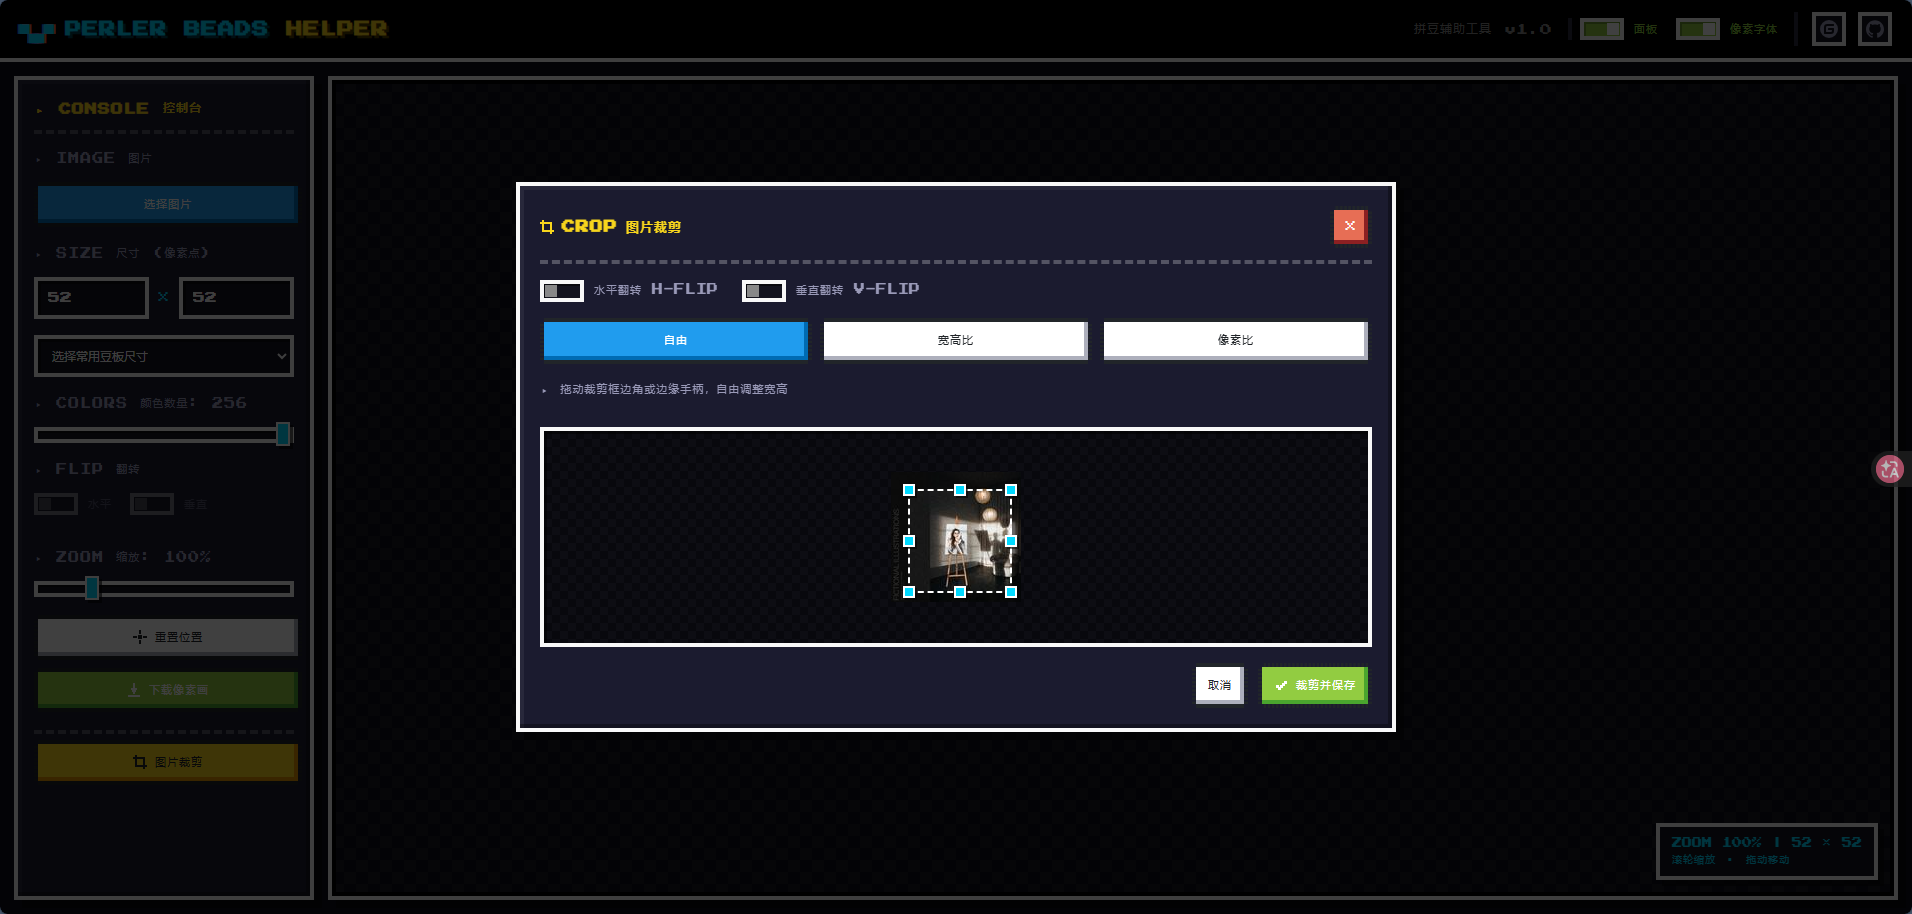
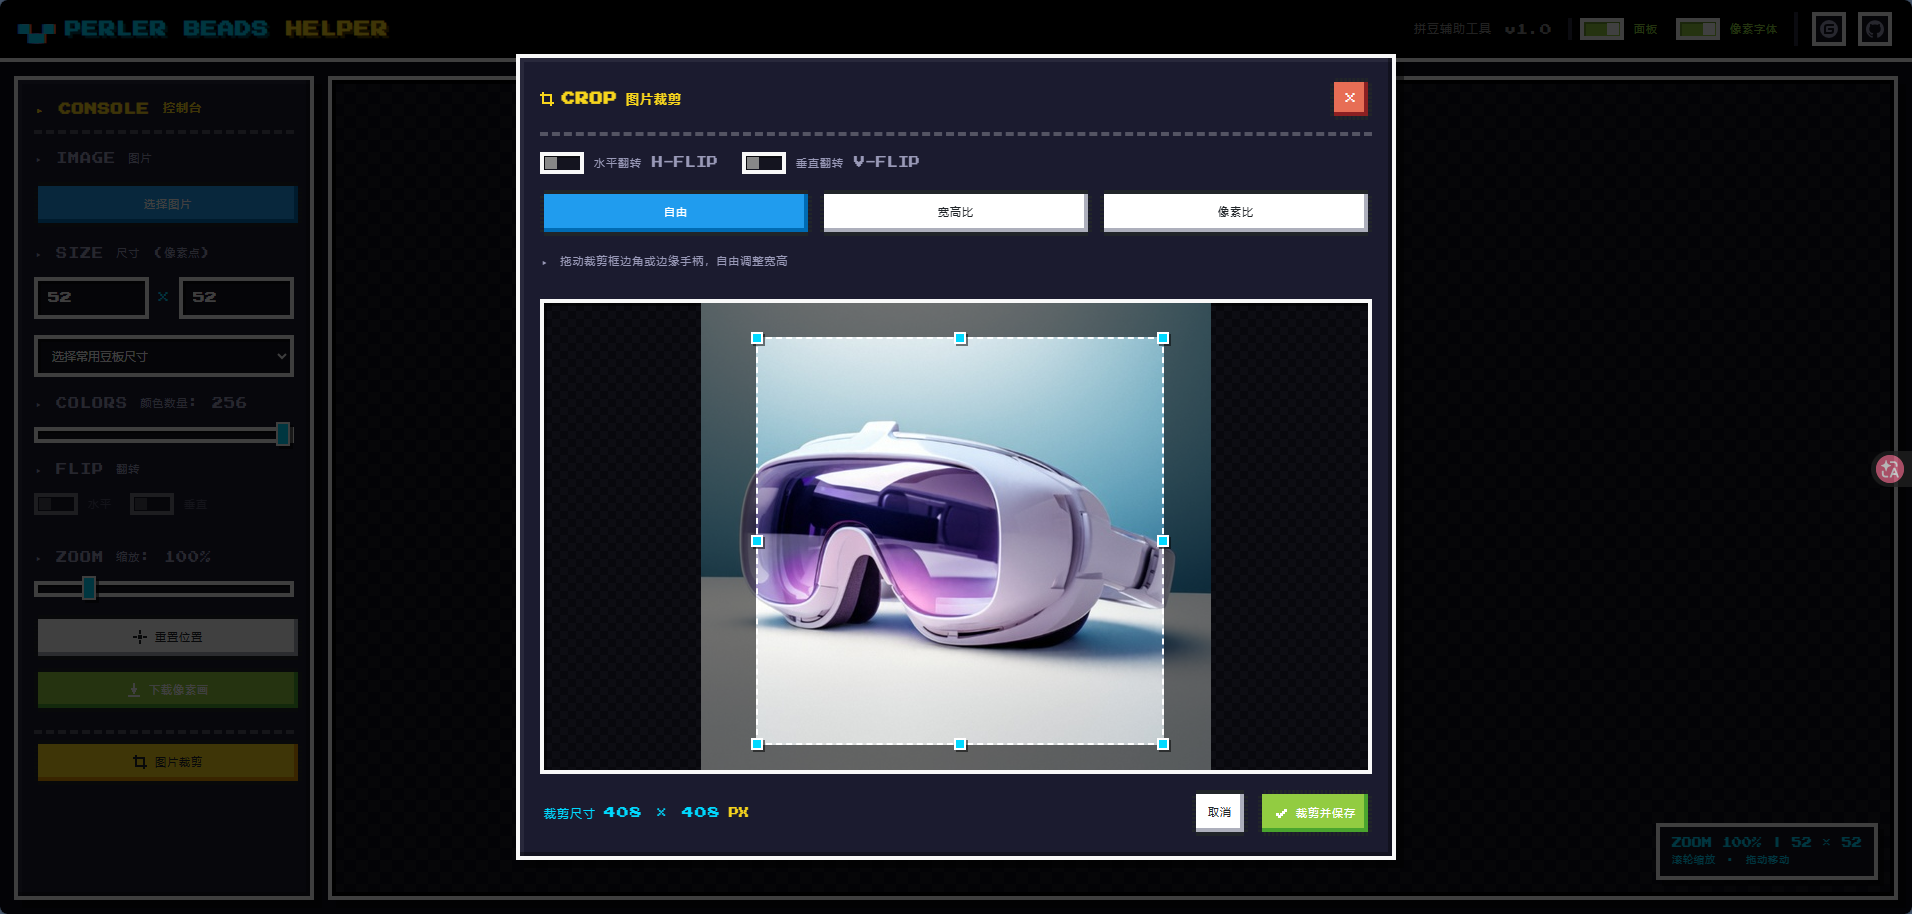
在裁剪弹窗的左下角，实时显示当前裁剪框裁剪的宽高像素

diff --git a/js/state.js b/js/state.js
@@ -105,6 +105,24 @@ window.PBH = window.PBH || { state: {}, fn: {} };
           height: cropRect.value.h + 'px'
         }));
 
+        // 图片在裁剪舞台内的实际显示区域（用于把裁剪框换算成真实像素）
+        const cropImgRect = ref(null);
+
+        /**
+         * 裁剪框对应的输出像素尺寸：与 applyCrop 的换算一致
+         * 像素比模式输出尺寸固定为输入值
+         */
+        const cropOutputSize = computed(() => {
+          const rect = cropImgRect.value;
+          const img = cropImage.value;
+          if (!rect || !img || rect.width <= 0) return null;
+          if (cropType.value === 'pixel' && customPxW.value > 0 && customPxH.value > 0) {
+            return { w: customPxW.value, h: customPxH.value };
+          }
+          const k = img.naturalWidth / rect.width;
+          return { w: Math.round(cropRect.value.w * k), h: Math.round(cropRect.value.h * k) };
+        });
+
         const canvasWidth = computed(() => pixelWidth.value * cellSize.value + rulerWidth.value);
         const canvasHeight = computed(() => pixelHeight.value * cellSize.value + rulerHeight.value);
 
@@ -123,7 +141,7 @@ window.PBH = window.PBH || { state: {}, fn: {} };
 
   // 状态装配：其他模块与 setup() 通过 PBH.state 共享同一批 ref / computed
   PBH.state = {
-    fileInput, cropFileInput, mainCanvas, previewContainer, originalImage, pixelWidth, pixelHeight, cellSize, rulerWidth, rulerHeight, scale, pixelData, hoveredPixel, selectedPixel, isDragging, isDraggingOver, offsetX, offsetY, lastMouseX, lastMouseY, panelOpen, pixelFont, flipH, flipV, cropModalOpen, cropImage, cropImageSrc, cropImageEl, cropStage, cropAspectRatio, activeRatio, cropType, customRatioW, customRatioH, customPxW, customPxH, cropRect, cropDragMode, cropDragStart, cropFlipH, cropFlipV, cropDragOver, cropTransform, presetRatios, handles, boardPreset, boardPresets, cropBoxStyle, canvasWidth, canvasHeight, imageInfo, imageRatio, hoveredPixelColor, selectedPixelColor, colorCount
+    fileInput, cropFileInput, mainCanvas, previewContainer, originalImage, pixelWidth, pixelHeight, cellSize, rulerWidth, rulerHeight, scale, pixelData, hoveredPixel, selectedPixel, isDragging, isDraggingOver, offsetX, offsetY, lastMouseX, lastMouseY, panelOpen, pixelFont, flipH, flipV, cropModalOpen, cropImage, cropImageSrc, cropImageEl, cropStage, cropAspectRatio, activeRatio, cropType, customRatioW, customRatioH, customPxW, customPxH, cropRect, cropDragMode, cropDragStart, cropFlipH, cropFlipV, cropDragOver, cropTransform, presetRatios, handles, boardPreset, boardPresets, cropBoxStyle, cropImgRect, cropOutputSize, canvasWidth, canvasHeight, imageInfo, imageRatio, hoveredPixelColor, selectedPixelColor, colorCount
   };
 
         /** 监听尺寸变化，重新渲染画布 */

diff --git a/js/crop.js b/js/crop.js
@@ -5,7 +5,7 @@
     cropModalOpen, cropImage, cropImageSrc, cropImageEl, cropStage,
     cropAspectRatio, activeRatio, cropType,
     customRatioW, customRatioH, customPxW, customPxH,
-    cropRect, cropDragMode, cropDragStart, cropFlipH, cropFlipV, cropDragOver,
+    cropRect, cropDragMode, cropDragStart, cropFlipH, cropFlipV, cropDragOver, cropImgRect,
     presetRatios
   } = PBH.state;
 
@@ -24,6 +24,7 @@
           cropFlipH.value = false;
           cropFlipV.value = false;
           cropDragOver.value = false;
+          cropImgRect.value = null;
         };
 
         /** 关闭裁剪弹窗 */
@@ -31,6 +32,7 @@
           cropModalOpen.value = false;
           cropImage.value = null;
           cropImageSrc.value = '';
+          cropImgRect.value = null;
         };
 
         /** 获取图片在 stage 内的显示位置与尺寸 */
@@ -50,6 +52,7 @@
         const initCropRect = () => {
           const ir = getCropImgRect();
           if (!ir) return;
+          cropImgRect.value = ir;
 
           let w, h;
           if (cropAspectRatio.value) {
@@ -384,6 +387,13 @@
 
           closeCropModal();
         };
+
+  // 窗口尺寸变化会改变图片显示尺寸，同步刷新像素换算基准
+        window.addEventListener('resize', () => {
+          if (!cropModalOpen.value) return;
+          const ir = getCropImgRect();
+          if (ir) cropImgRect.value = ir;
+        });
 
   Object.assign(PBH.fn, {
     openCropModal, closeCropModal, getCropImgRect, initCropRect, processCropFile,

diff --git a/css/style.css b/css/style.css
@@ -728,3 +728,23 @@
       gap: 10px;
       margin-top: 16px;
     }
+    /* 裁剪框实时尺寸：占据左侧空位，不挤动右侧按钮 */
+    .crop-size-info {
+      display: flex;
+      align-items: center;
+      gap: 8px;
+      margin-right: auto;
+      padding-left: 4px;
+      font-size: 12px;
+      color: var(--px-cyan);
+    }
+    .crop-size-info .crop-size-value {
+      font-family: var(--px-font);
+      font-size: 12px;
+      letter-spacing: 1px;
+    }
+    .crop-size-info .crop-size-unit {
+      font-family: var(--px-font);
+      font-size: 10px;
+      color: var(--px-yellow);
+    }

diff --git a/index.html b/index.html
@@ -289,6 +289,11 @@
         </template>
 
         <div class="crop-modal-footer">
+          <div class="crop-size-info">
+            <span class="cjk">裁剪尺寸</span>
+            <span class="crop-size-value">{{ cropOutputSize ? cropOutputSize.w + ' × ' + cropOutputSize.h : '— × —' }}</span>
+            <span class="crop-size-unit">PX</span>
+          </div>
           <button class="nes-btn" @click="closeCropModal"><span class="cjk">取消</span></button>
           <button class="nes-btn is-success" @click="applyCrop" :disabled="!cropImage">
             <span class="btn-inner">
